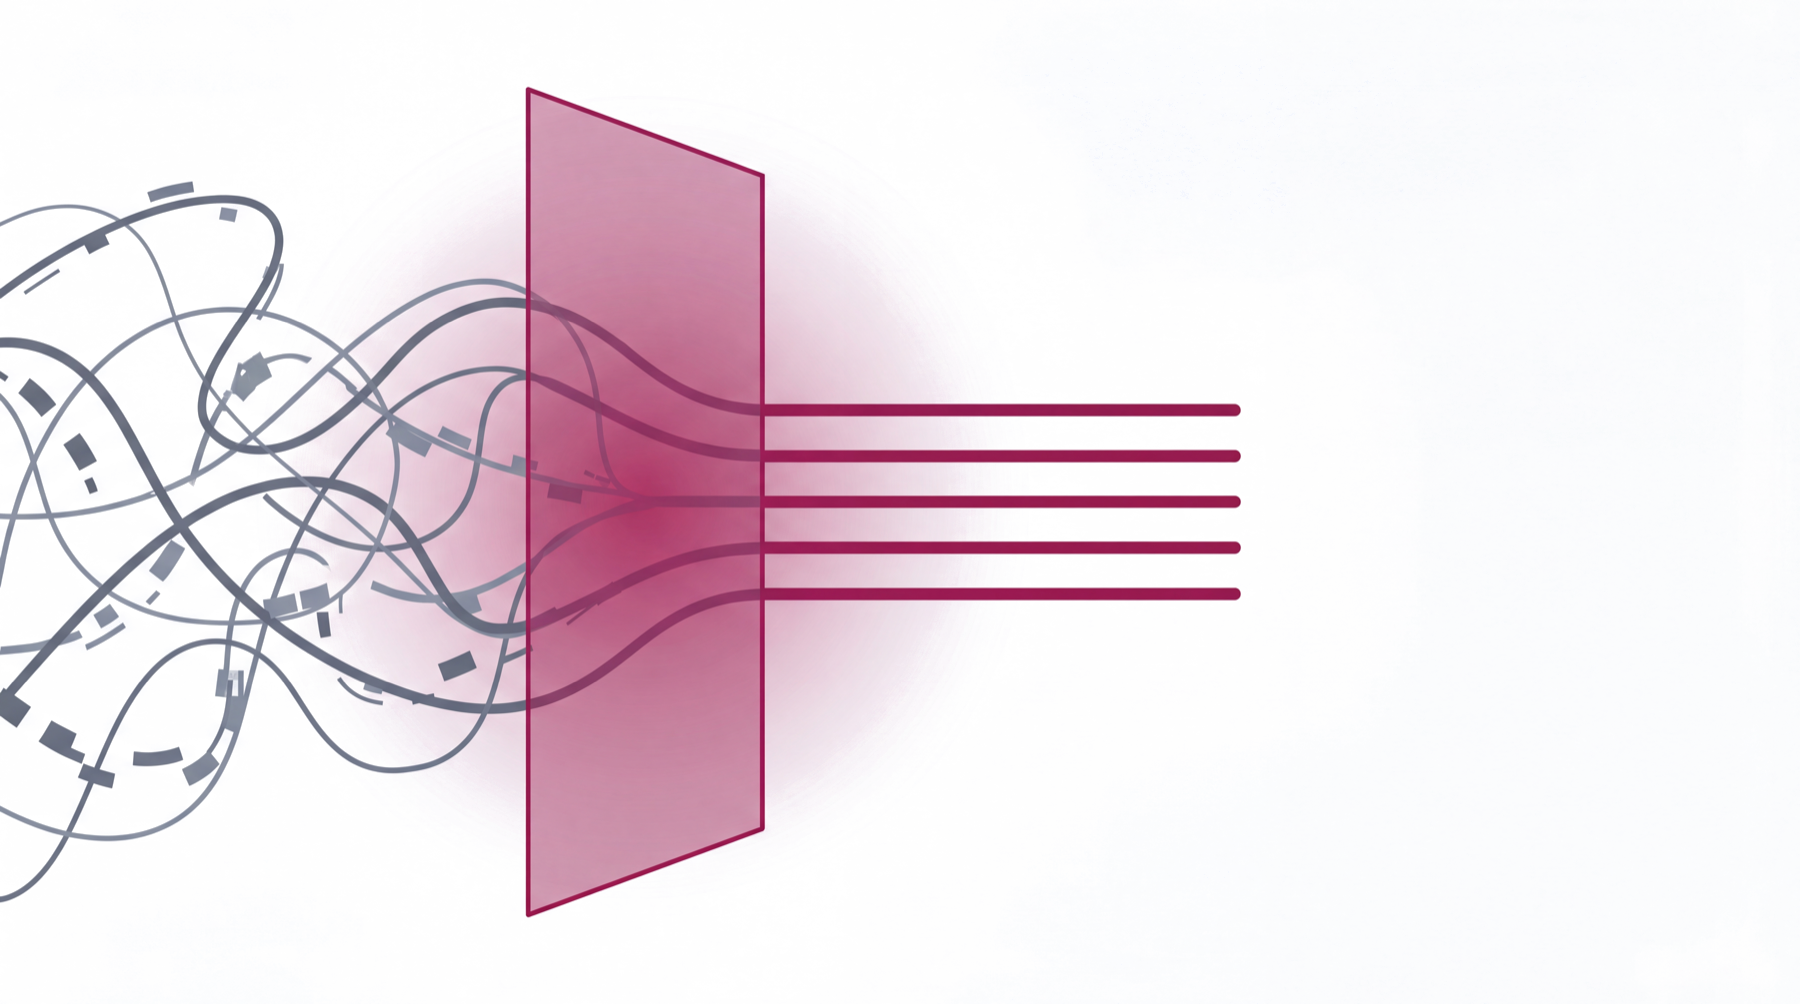
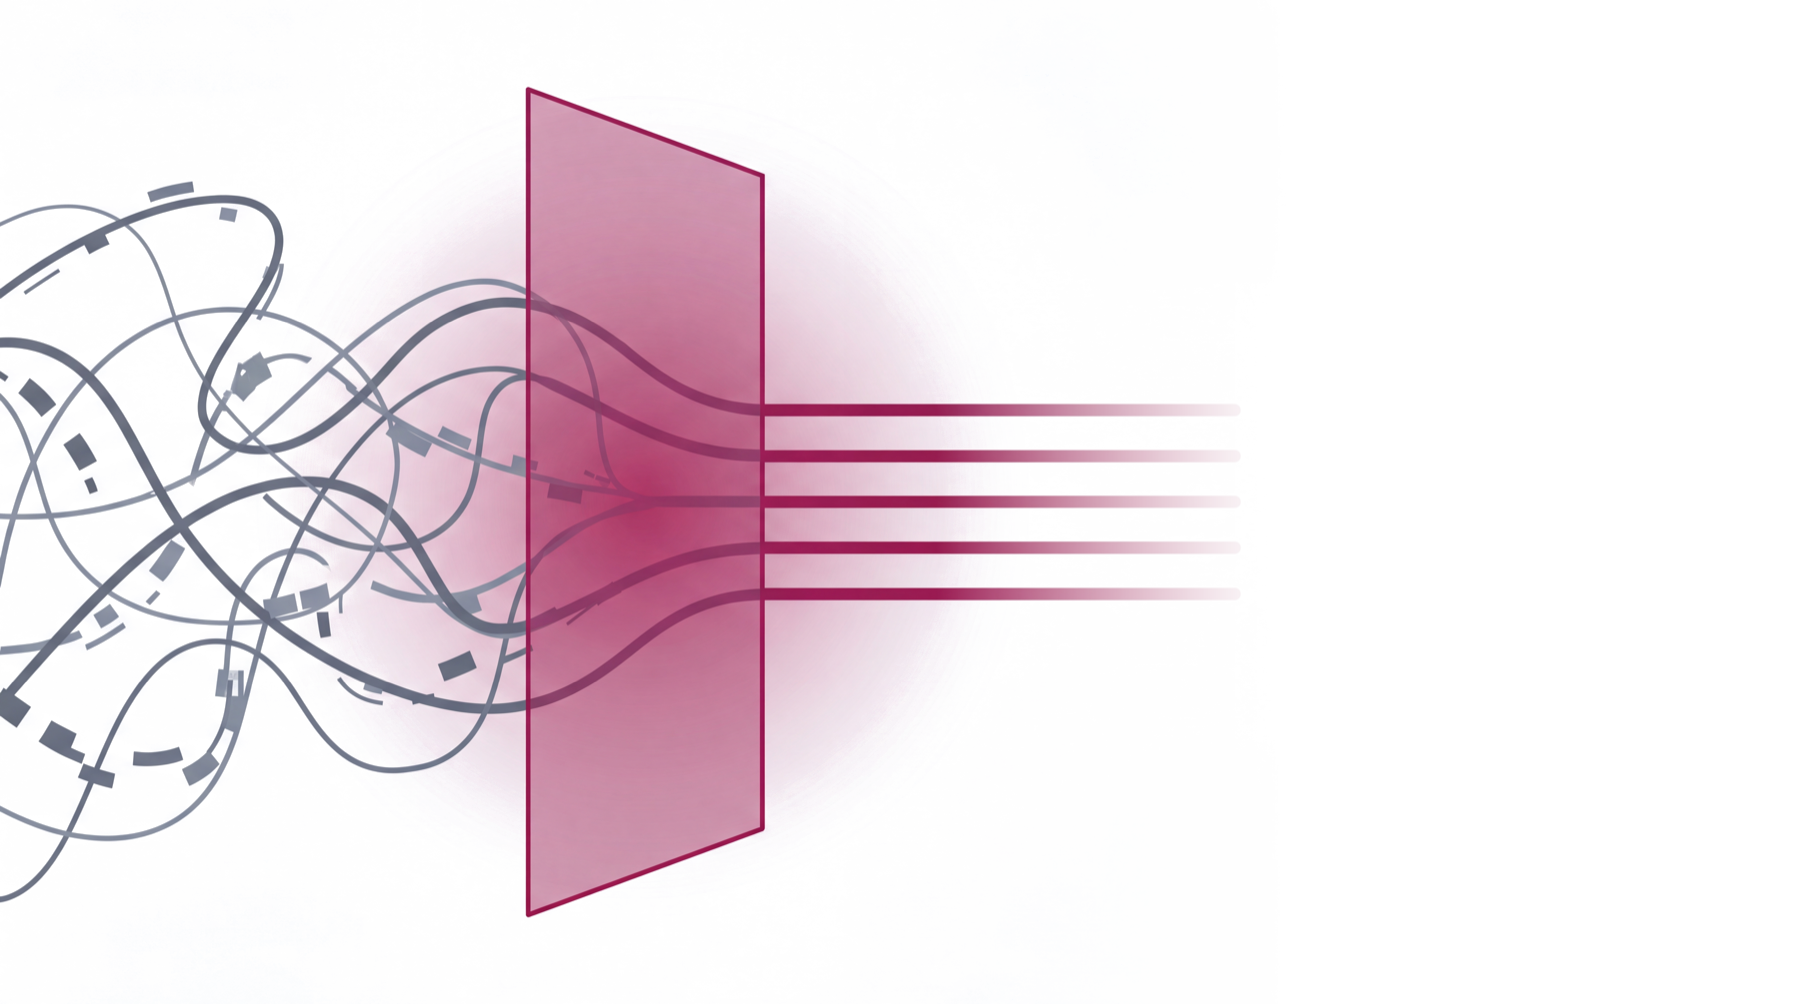
Hero artwork: responsive scaling, line fade-out, mobile fix
- Truth-layer PNG: alpha fade on the five line-ends (52-72% width) so they
  dissolve under text instead of hard-stopping mid-paragraph
- Size/position now viewport-proportional: auto clamp(420px,28vw+130px,740px)
  at calc(14.5vw - 400px), scales from 13in to 27in displays
- Mobile (<=1000px): subtle artwork behind headline at .32 opacity
- FIX pre-existing mobile bug: terminal pre (634px min-content) forced the
  1fr grid column wide, clipping hero text behind overflow:hidden. min-width:0
  on grid children + overflow-x:auto on the pre

Changed region(s): [[0.5289, 0.494, 0.6844, 0.5558], [0.5289, 0.4014, 0.6844, 0.4631], [0.5289, 0.5867, 0.6844, 0.6175]]

diff --git a/marketing/business-case.html b/marketing/business-case.html
@@ -97,8 +97,15 @@
     radial-gradient(760px 380px at -6% 108%, rgba(157,27,84,.06), transparent 58%),
     radial-gradient(rgba(157,27,84,.07) 1px, transparent 1px) 0 0/26px 26px}
   .hero::before{content:"";position:absolute;inset:0;z-index:0;pointer-events:none;
-    background:url(diagrams/sbc-autoops-hero-truth-layer-trans.png) -165px 335px/auto 530px no-repeat}
-  @media(max-width:1000px){.hero::before{display:none}}
+    background:url(diagrams/sbc-autoops-hero-truth-layer-trans.png) no-repeat;
+    background-position:calc(14.5vw - 400px) 335px;
+    background-size:auto clamp(420px, 28vw + 130px, 740px)}
+  .hero-grid>div{min-width:0}
+  .term pre{overflow-x:auto}
+  @media(max-width:1000px){
+    .hero::before{background-position:-140px -20px;background-size:auto 260px;opacity:.32}
+    .term pre{overflow-x:auto;font-size:10.5px}
+  }
   .hero .wrap{position:relative;z-index:1}
   @media(min-width:1001px){.hero-grid{margin-left:12%}}
   .hero-grid{display:grid;grid-template-columns:1.02fr .98fr;gap:56px;align-items:center}